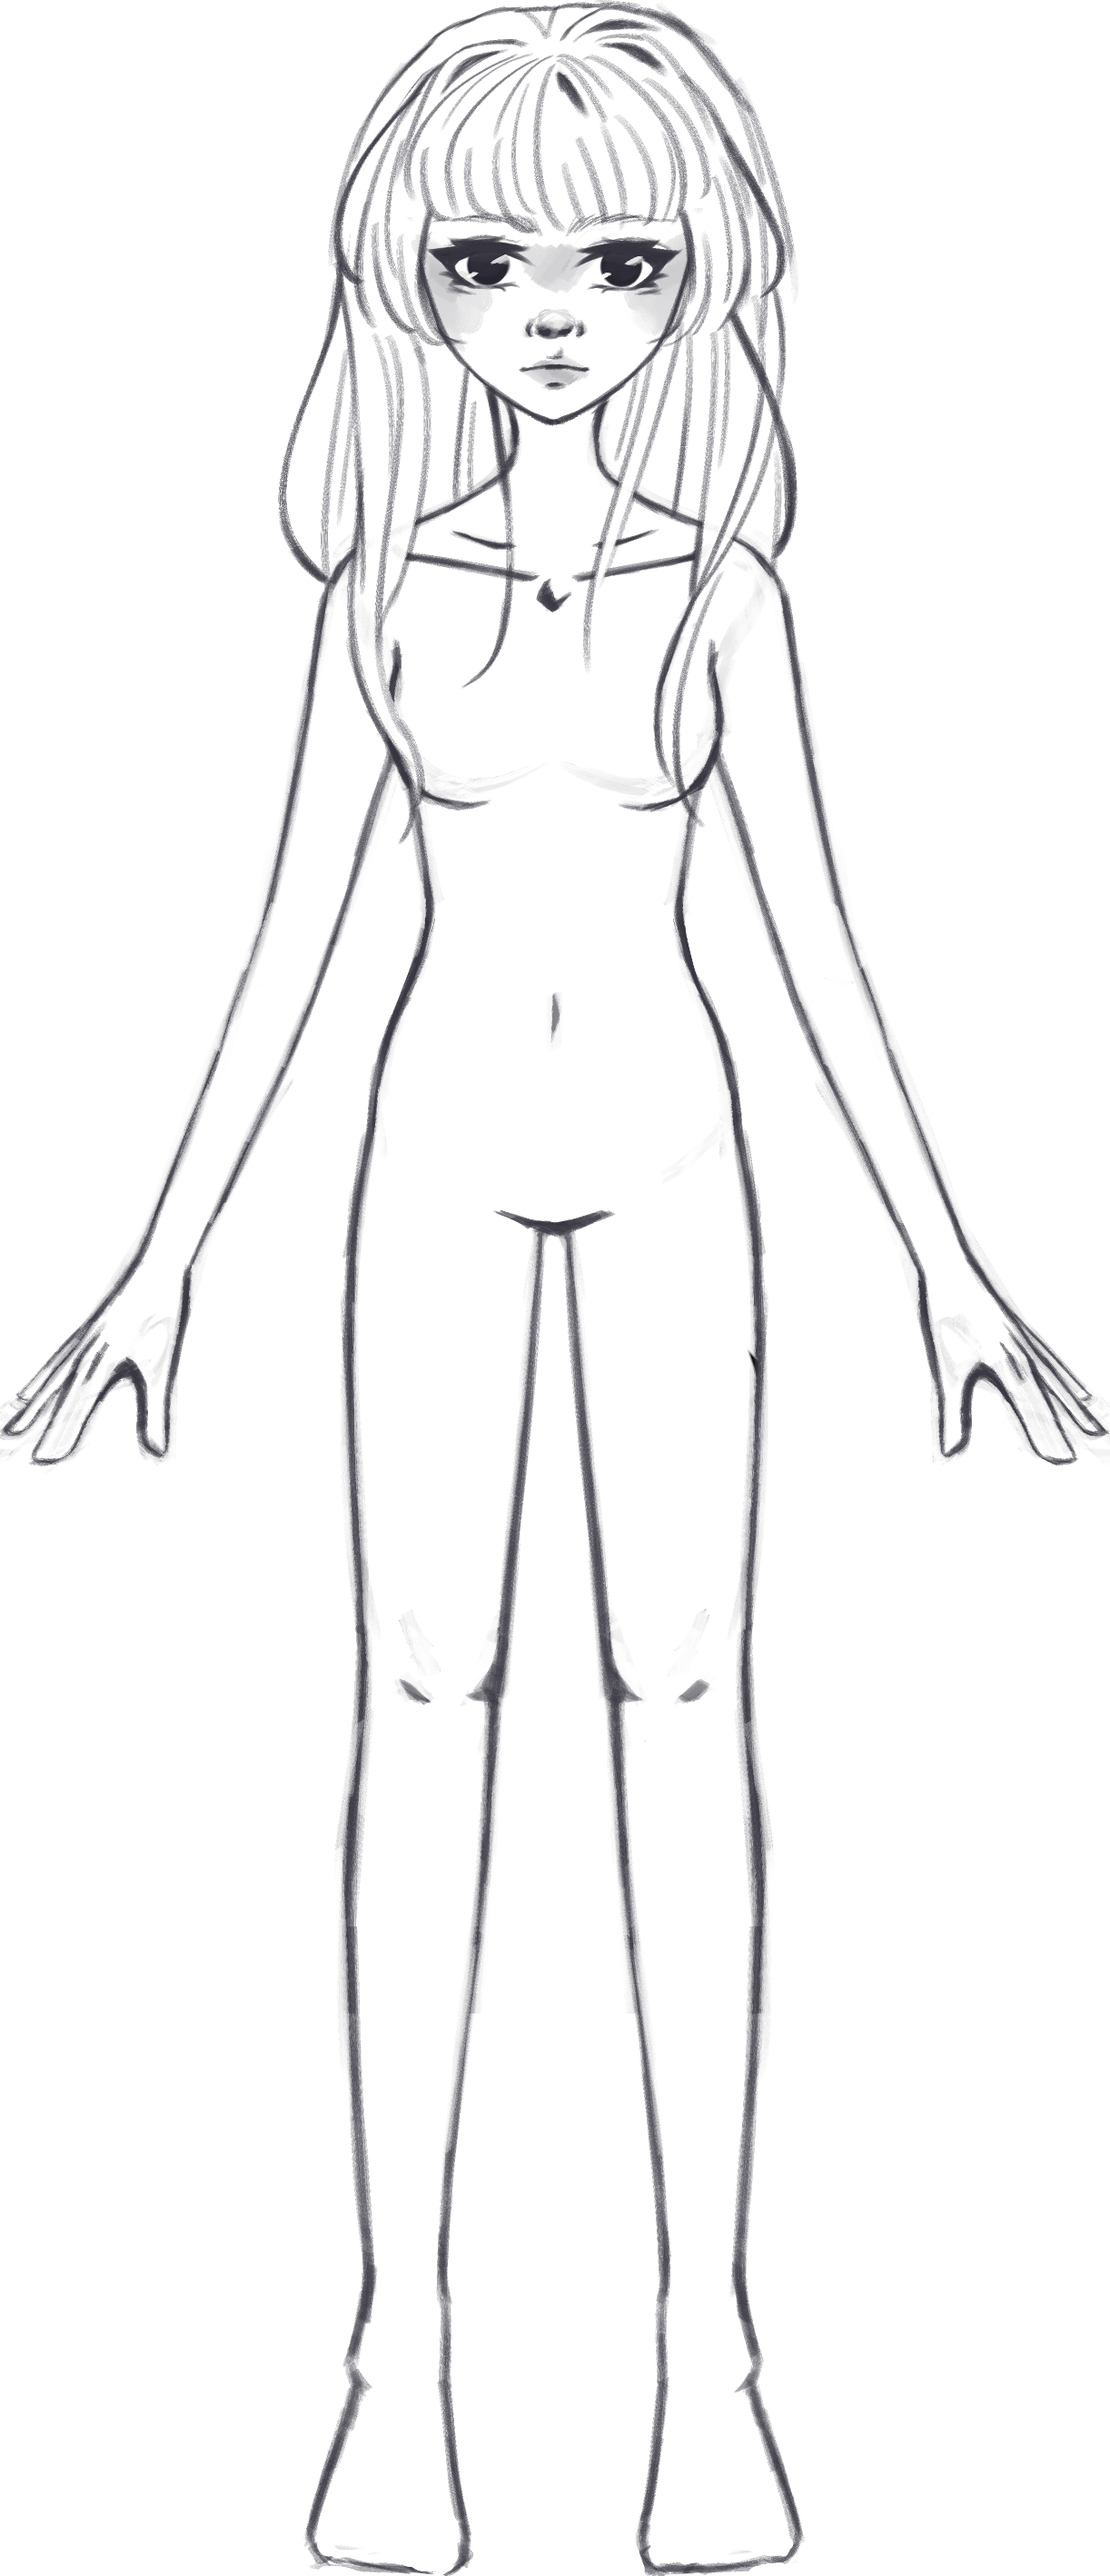
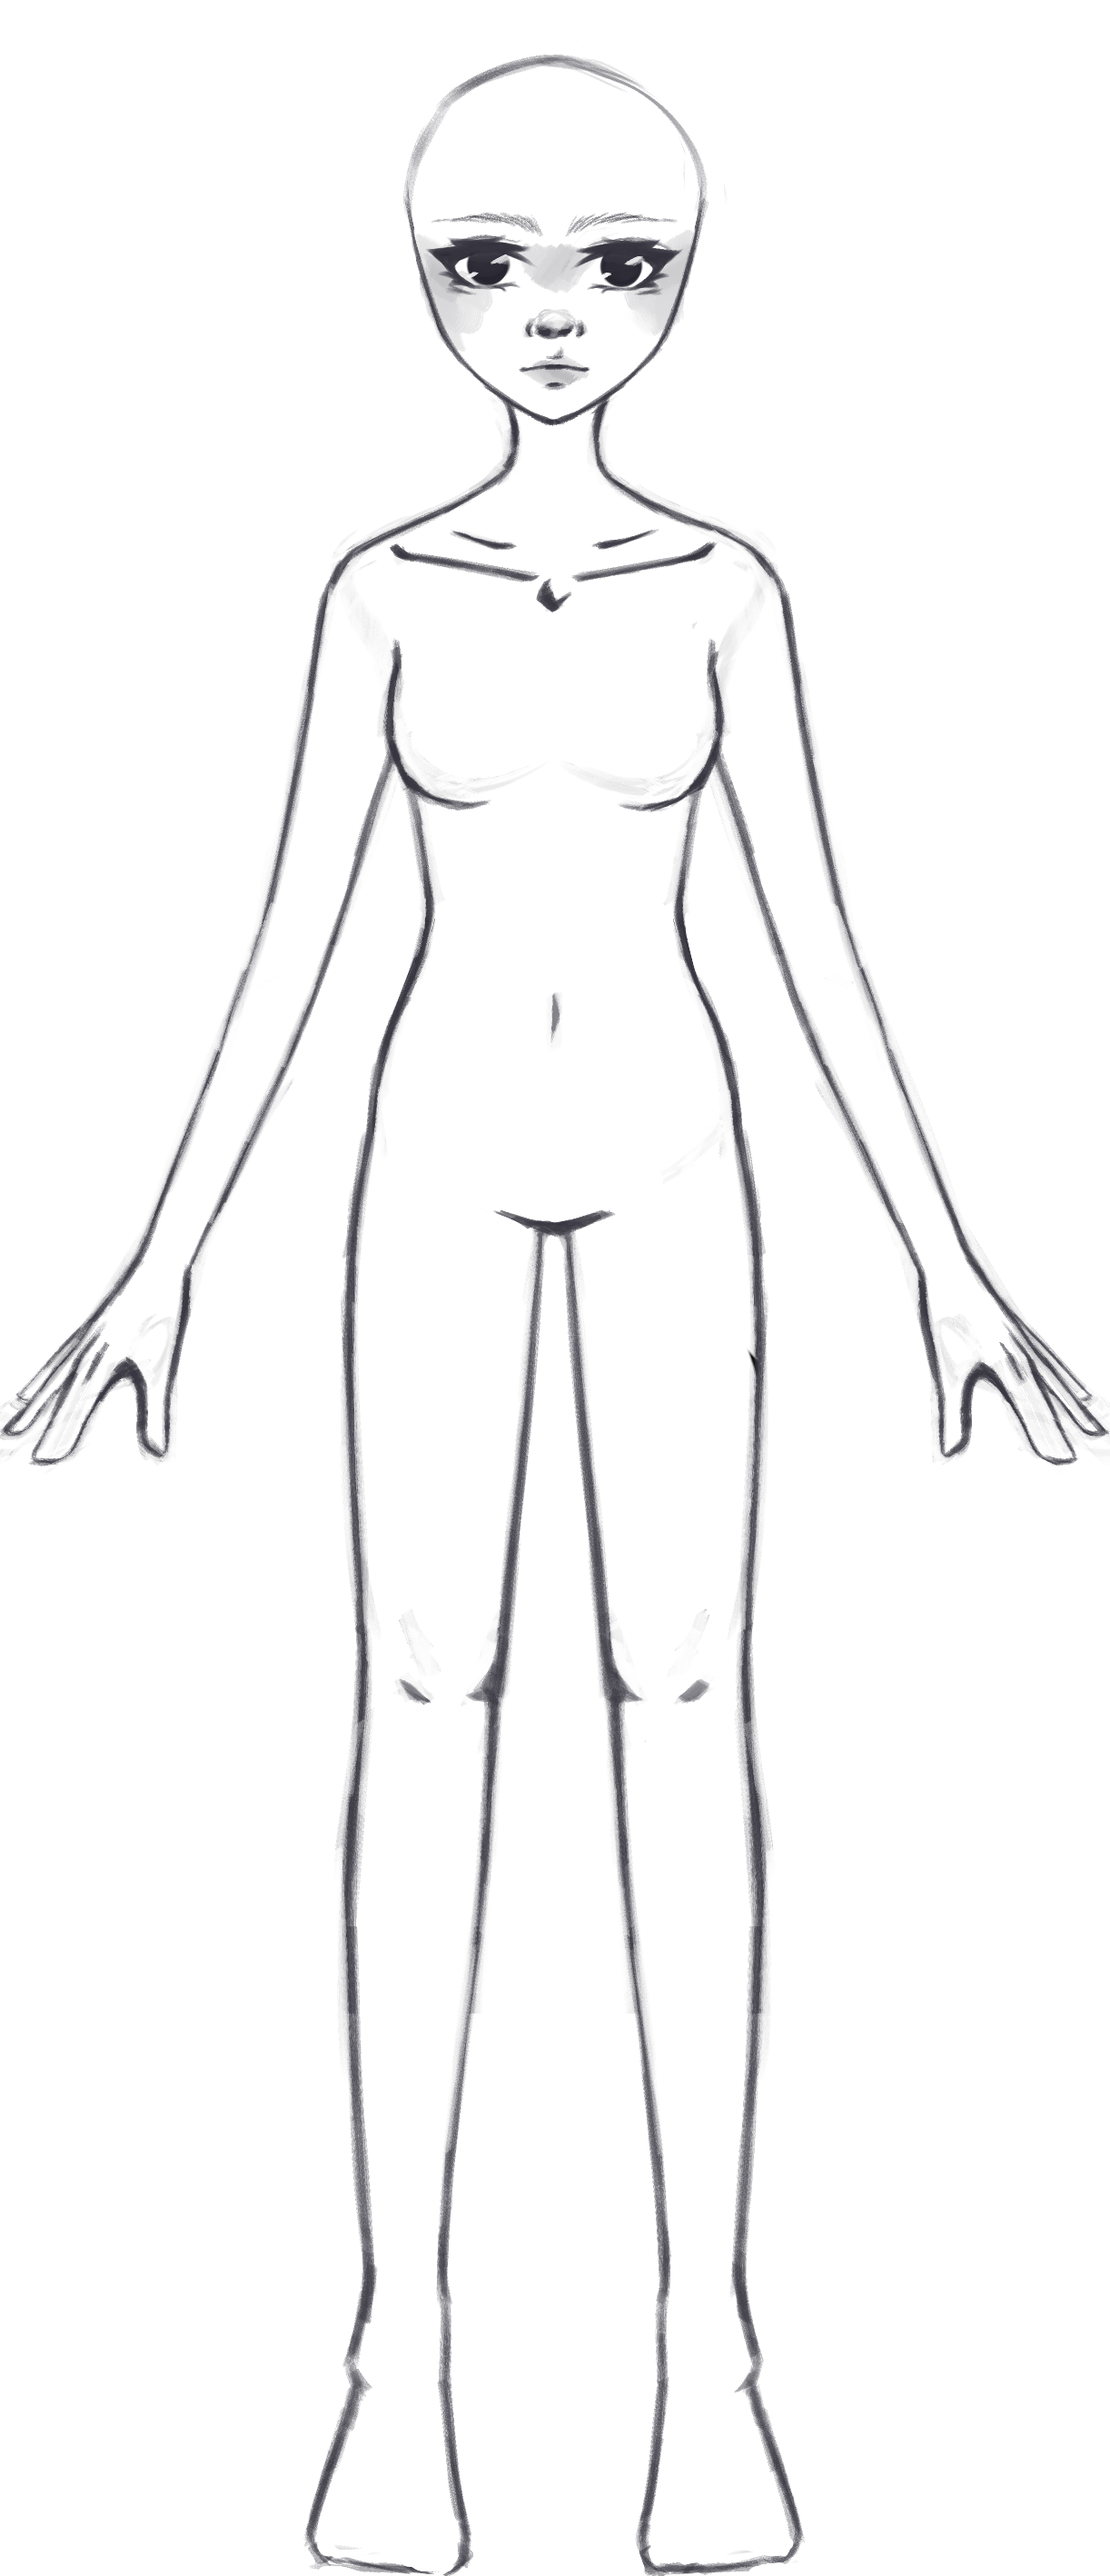
make changing hair possible

Changed region(s): [[0.2488, 0.0, 0.7152, 0.3104]]

diff --git a/src/index.css b/src/index.css
@@ -5,7 +5,7 @@
 
   color-scheme: light dark;
   color: rgba(255, 255, 255, 0.87);
-  background-color: #DBCAE1;
+  background-color: #BFA2CB;
 
   font-synthesis: none;
   text-rendering: optimizeLegibility;
@@ -14,12 +14,20 @@
 }
 
 #root{
-  height: 100%;
-  width: 100%;
+  height: 95vh;
+  width: 90vw;
+  background-color: #E1F0F6;
+  border-radius: 20px;
+  background-image:
+    linear-gradient(to right, #000000 5px, transparent 1px),
+    linear-gradient(to bottom, #000000 1px, transparent 1px);
 }
 
 body{
   margin: 0;
   padding: 0;
   height: 100vh;
+  display: flex;
+  justify-content: center;
+  align-items: center;
 }

diff --git a/src/App.tsx b/src/App.tsx
@@ -5,6 +5,8 @@ import Character from "./components/Character";
 import Top from "./components/Top";
 import Arrow from "./components/Arrow";
 import Bottom from "./components/Bottom";
+import Hair from "./components/Hair";
+import hairImg from "./assets/hair1.png";
 import { useState } from "react";
 
 function App() {
@@ -37,6 +39,7 @@ function App() {
   return (
     <>
       <div className="main">
+        <Hair imagePath={hairImg}></Hair>
         <Character imagePath={characterImg} />
         <Top imagePath={tops[currentTop]} />
         <Arrow

diff --git a/src/App.css b/src/App.css
@@ -4,7 +4,7 @@
 
 .main {
   display: grid;
-  grid-template-columns: 30% 23.33% 23.33% 23.33%;
+  grid-template-columns: 50% 12.5% 25% 12.5%;
   grid-template-rows: repeat(5, 20%);
   width: 100%;
   height: 100%;
@@ -12,7 +12,7 @@
   align-items: center;
 }
 
-.character, .top, .bottom {
+.character, .top, .bottom, .hair {
   width: auto;
   height: 800px;
   /* position: absolute; */
@@ -30,6 +30,10 @@
 
 .bottom{
   z-index: 1;
+}
+
+.hair{
+  z-index: 5;
 }
 
 .forward, .back{

diff --git a/src/components/Hair.tsx b/src/components/Hair.tsx
@@ -1,0 +1,11 @@
+interface Props {
+  imagePath: string;
+}
+
+const Hair = ({ imagePath }: Props) => {
+  return (
+    <img src={imagePath} alt="hair of our character" className="hair"></img>
+  );
+};
+
+export default Hair;
